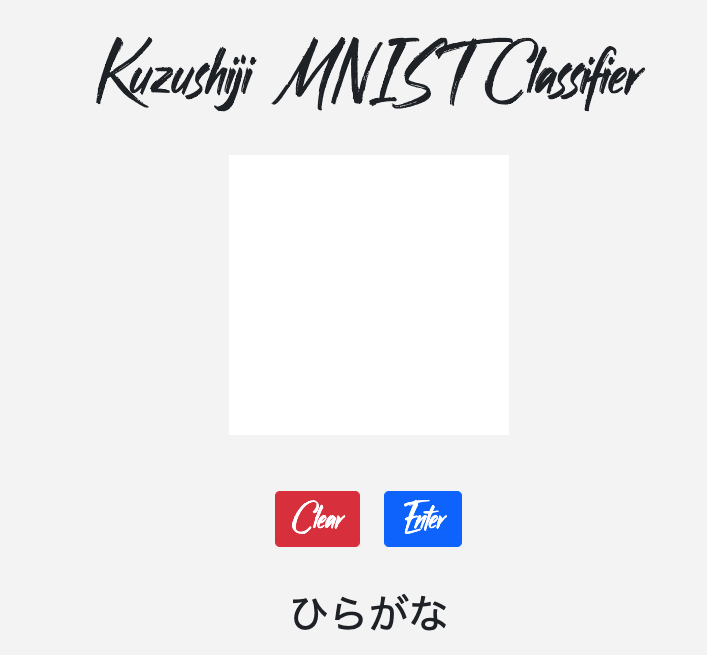
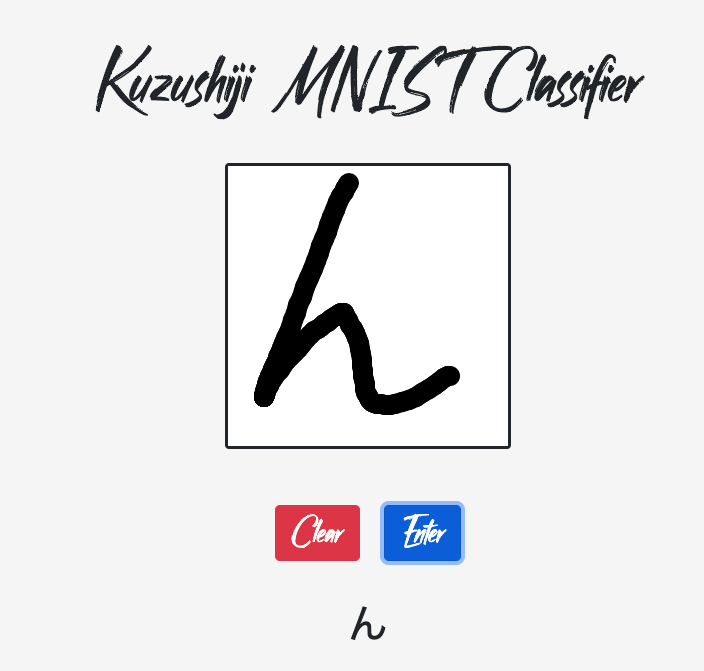
Added border around canvas, flash notification when prediction is generated, and updated screenshot

diff --git a/app/templates/index.html b/app/templates/index.html
@@ -43,9 +43,6 @@
                 padding: 15px;
                 margin: auto;
             }
-            .pred {
-                padding: auto;
-            }
             .btn-social {
                 border-radius: 100%;
                 display: inline-flex;
@@ -62,8 +59,11 @@
             <div class="my-5">
                 <h1>Kuzushiji MNIST Classifier</h1>
             </div>
-            <canvas id="canvas"></canvas>
-            <div class="my-5">
+            <canvas
+                id="canvas"
+                class="border border-3 border-dark rounded"
+            ></canvas>
+            <div class="mt-5 mb-4">
                 <button
                     id="clear"
                     class="mx-2 pt-3 btn btn-lg btn-danger clear"
@@ -77,9 +77,27 @@
                     Enter
                 </button>
             </div>
-            <div class="container" id="prediction">
-                <h1 id="pred">ひらがな</h1>
+
+            <div
+                class="container"
+                style="display: inline-block"
+                id="prediction"
+            >
+                <h1
+                    id="pred"
+                    style="
+                        width: fit-content;
+                        height: fit-content;
+                        margin: 0 auto;
+                        padding: 1.25rem;
+                        padding-bottom: 0.9rem;
+                        border-radius: 50%;
+                    "
+                >
+                    ひらがな
+                </h1>
             </div>
+
             <div class="container">
                 <img
                     class="img-fluid"
@@ -90,6 +108,16 @@
             <footer class="footer text-center">
                 <div class="row text-center">
                     <div class="container">
+                        <a
+                            class="btn btn-outline-secondary btn-social mx-1 px-1"
+                            href="https://github.com/Kou-kun42/Kuzushiji-MNIST-Classifier"
+                            target="_blank"
+                            rel="noopener noreferrer"
+                            ><i
+                                class="bi bi-git"
+                                style="font-size: 40px; height: 50px"
+                            ></i
+                        ></a>
                         <a
                             class="btn btn-outline-secondary btn-social mx-1 px-1"
                             href="https://github.com/Kou-kun42"

diff --git a/app/static/canvas.js b/app/static/canvas.js
@@ -103,6 +103,23 @@ clearBtn.addEventListener("click", () => {
     context.fillRect(0, 0, canvas.width, canvas.height);
 });
 
+// Flash prediction on update
+let predBG = "rgba(200, 200, 244, ";
+let flashBG = () => {
+    let predBGopacity = 1.0;
+    let predBox = document.getElementById("pred");
+
+    // Set background color and bring opacity to 1
+    predBox.style.backgroundColor = predBG + predBGopacity + ")";
+
+    // While the opacity is viewable, keep lowering it until it's gone
+    let intr = setInterval(() => {
+        predBGopacity -= 0.02;
+        predBox.style.backgroundColor = predBG + predBGopacity + ")";
+        if (predBGopacity <= 0) clearInterval(intr);
+    }, 20);
+};
+
 // Checks if canvas is empty to prevent blank submissions
 let isEmpty = () => {
     const blank = document.createElement("canvas");
@@ -136,6 +153,8 @@ predictBtn.addEventListener("click", () => {
                 // Update h1 element on page with prediction
                 pred.innerHTML = result.prediction;
                 document.getElementById("pred").innerHTML = pred.innerHTML;
+                // Flash the element
+                flashBG();
                 submitted = true;
             })
             .catch((error) => {
